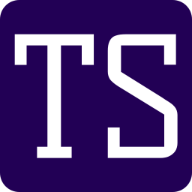
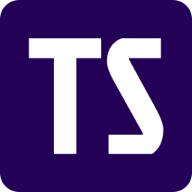
Atualização ícone TS

Changed region(s): [[0.0625, 0.1562, 0.9375, 0.8438]]

diff --git a/index.html b/index.html
@@ -5,6 +5,10 @@
     <meta http-equiv="X-UA-Compatible" content="IE=edge">
     <meta name="viewport" content="width=device-width, initial-scale=1.0">
     <link rel = "stylesheet" href="style.css">
+    <link rel="apple-touch-icon" sizes="180x180" href="/apple-touch-icon.png">
+    <link rel="icon" type="image/png" sizes="32x32" href="/favicon-32x32.png">
+    <link rel="icon" type="image/png" sizes="16x16" href="/favicon-16x16.png">
+    <link rel="manifest" href="/site.webmanifest">
     <title>Portifólio</title>
 </head>
 <body>
